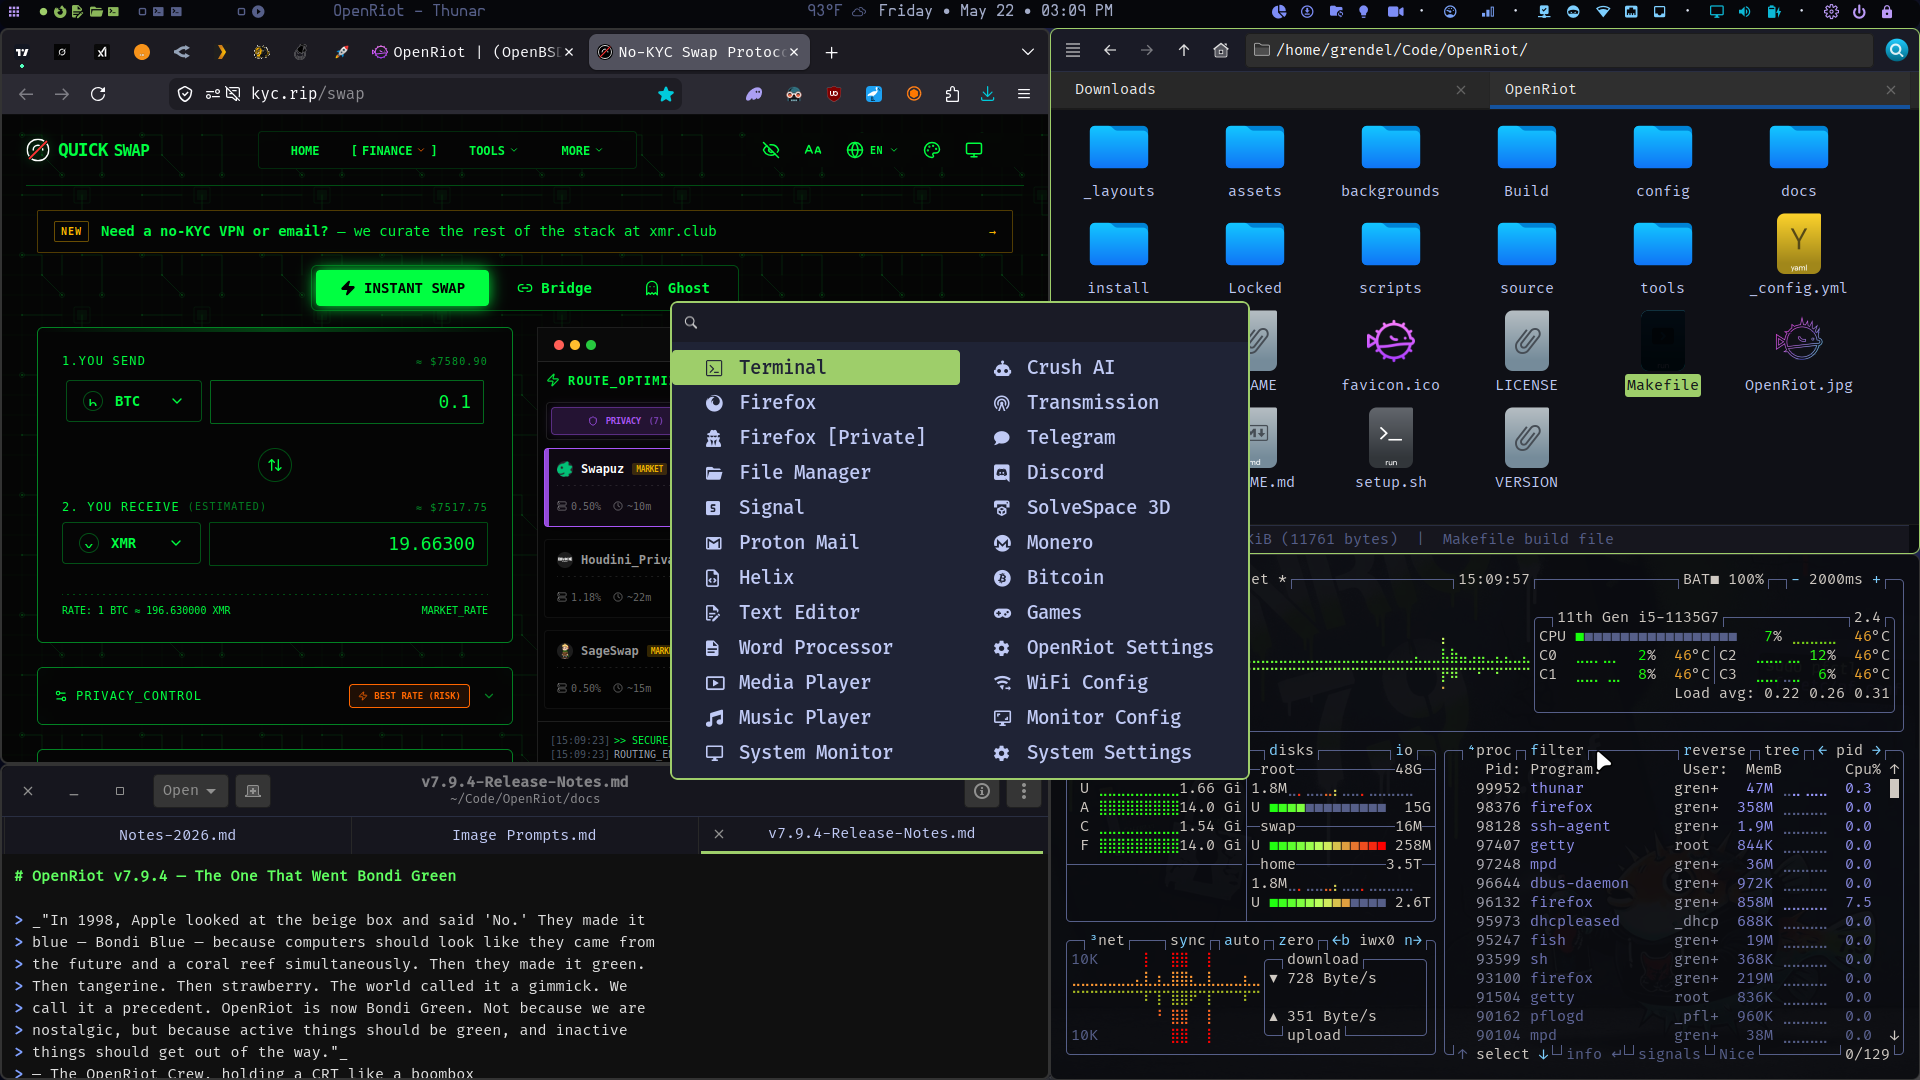
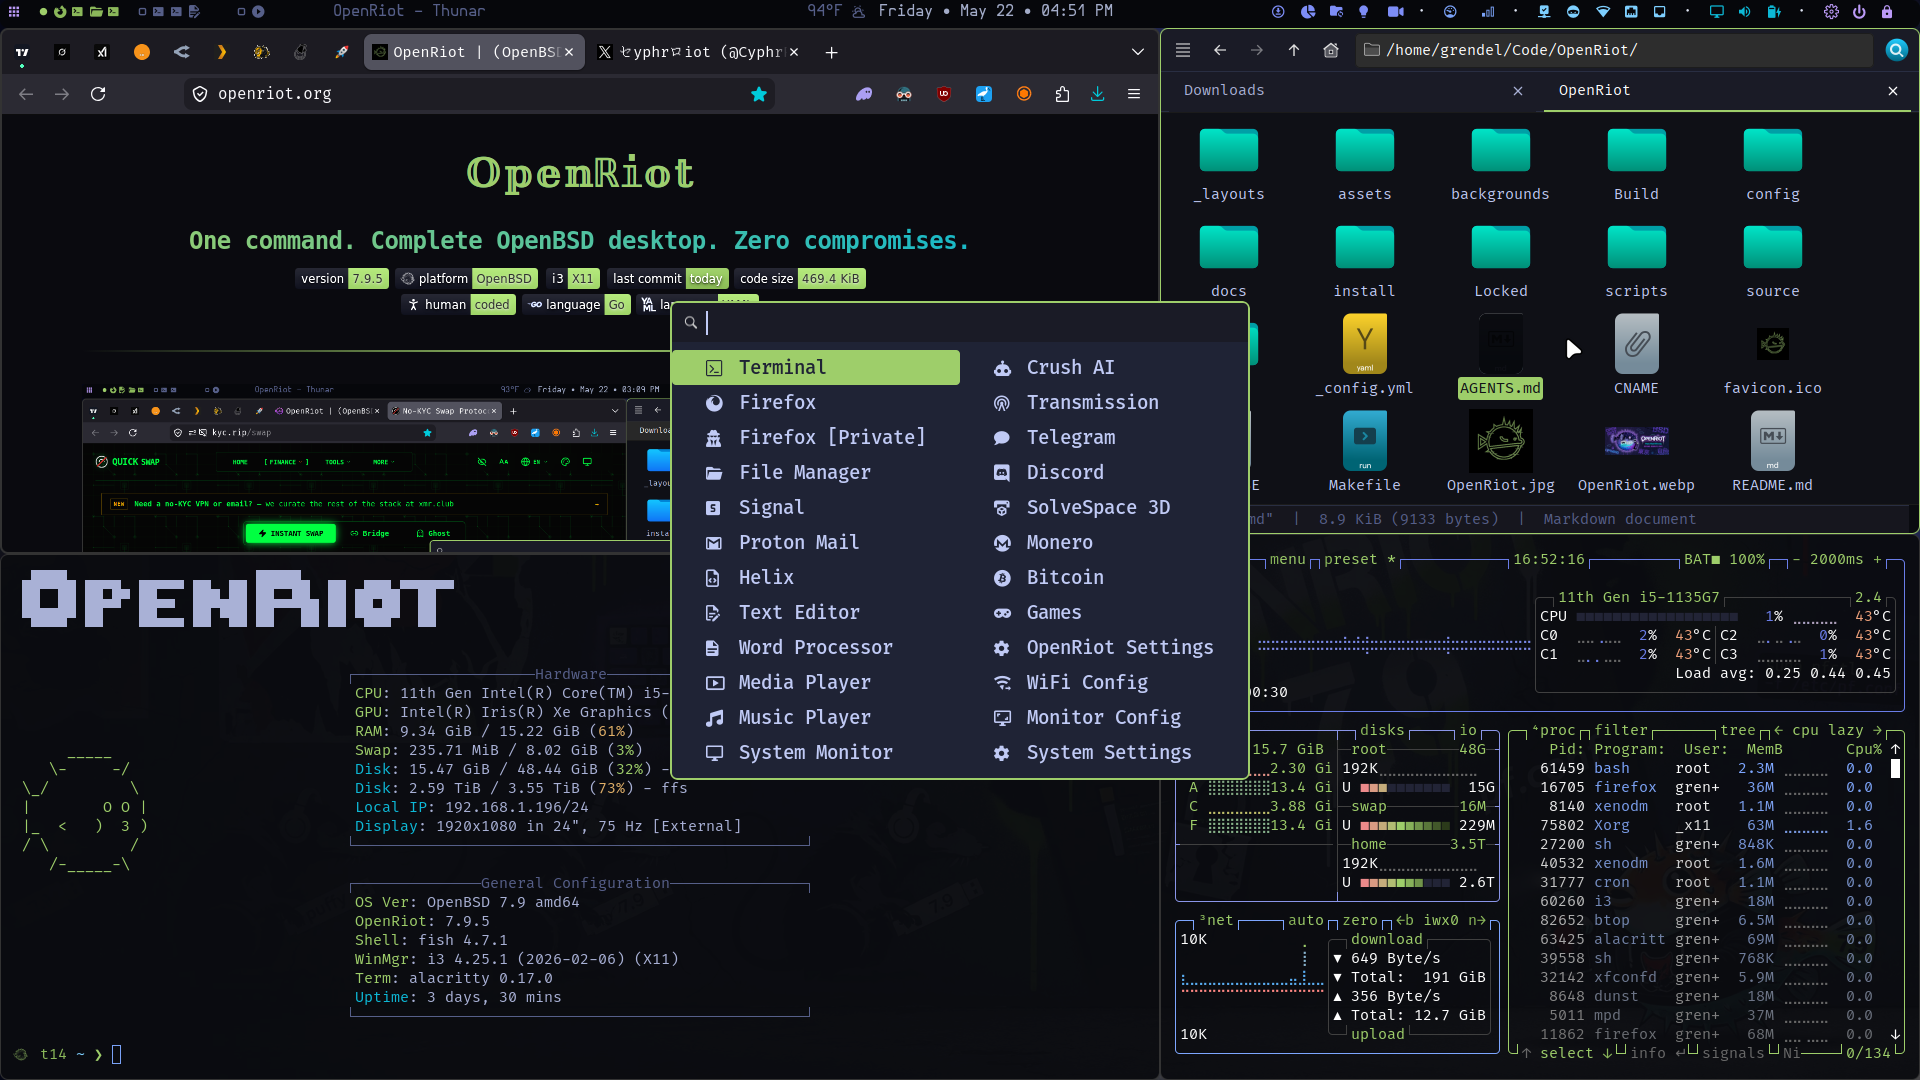
Final Green Website update

diff --git a/assets/css/style.scss b/assets/css/style.scss
@@ -185,7 +185,7 @@ table {
 
 th {
     background: var(--archriot-green-dark) !important;
-    color: white !important;
+    color: var(--archriot-darker-bg) !important;
     padding: 0.5rem 1rem;
     font-weight: 600;
 }
